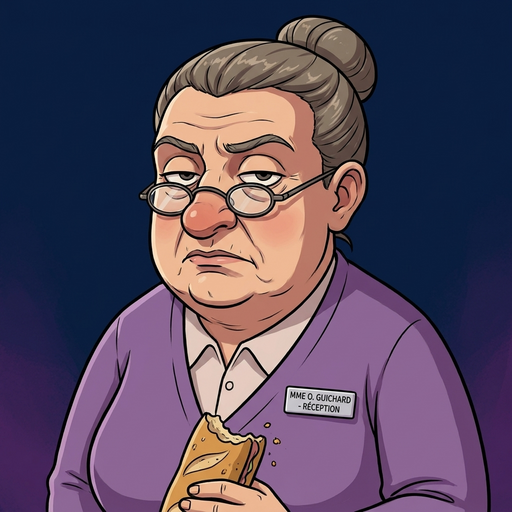
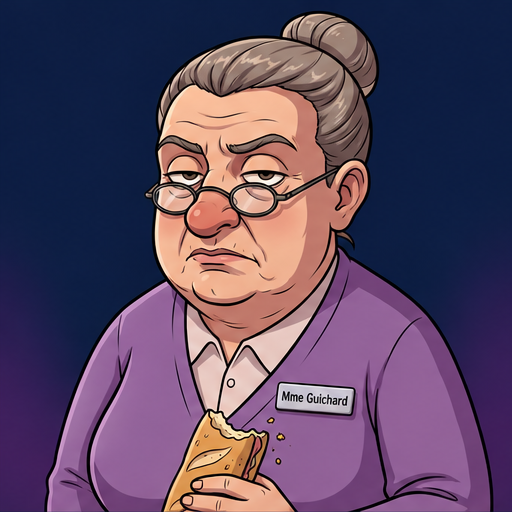
fix(st-guichet): Mme Guichard plus petite dans la baie 1 + planches parlantes v3
- billboard : buste v3 avec marge transparente (≈ 71 % × 67 % du cadre au lieu de ≈ 99 %),
  base abaissée de top − 0,05 à top − 0,08 → tête sous le rideau, air côté vitre/montants
  (buste visible ≈ 3,12 → ≈ 2,24 de haut ; ≈ 2,94 → ≈ 2,07 de large, baie ≈ 3,49)
- planche billboard 2 cellules repos/parle (visage parlant recollé, pas de scintillement),
  basculée par actorFrame pendant ses répliques
- portrait dialogue : grille GenAI 3 × 2 remappée sur SHEET 4 × 2 (clignement, yeux au ciel,
  3 bouches) ; badge « Mme Guichard » (texte de regard aligné)
- GenAI : OpenAI gpt-image-2.6-sunburst (edit), _briefs/guichet/genai/v3 ; doc PORTRAIT_GENAI

diff --git a/src/three/rooms/station.ts b/src/three/rooms/station.ts
@@ -708,11 +708,16 @@ export const stGuichet: RoomBuild = {
     back.add(lamp);
     s.add(back);
     const g = s.fit(s.rect('guichard'), zg);
+    // Buste réduit + assise un peu plus bas : la tête reste sous le rideau, les épaules loin des
+    // montants. Le cadre du sprite garde sa hauteur (≈ 3,15) mais la planche v3 laisse une marge
+    // transparente : buste visible ≈ 71 % de la hauteur / 67 % de la largeur du cadre (v1 : ≈ 99 %),
+    // soit ≈ 2,24 de haut et ≈ 2,07 de large dans une baie de ≈ 3,49. Base top − 0,08 (v1 : − 0,05).
+    const gBase = top - 0.08;
     const gh = Math.min((g.y + g.h / 2) - (top - 0.05), g.w / GUICHARD_ASPECT);
     const guichard = billboardSheet(GUICHARD_SHEET, 2, gh, GUICHARD_ASPECT, { tint: '#fff2f6', shadow: 0.01 });
     const gs = guichard.userData.sprite as THREE.Sprite;
     const baseSY = gs.scale.y;
-    s.spot('guichard', at(guichard, x1, top - 0.05, zg));
+    s.spot('guichard', at(guichard, x1, gBase, zg));
     s.animate((t) => {
       guichard.userData.setFrame(actorFrame('guichard', GUICHARD_ACTOR, t));
       gs.scale.y = baseSY * (1 + Math.sin(t * 1.1) * 0.006); // respiration de fonctionnaire

diff --git a/src/three/props.ts b/src/three/props.ts
@@ -922,7 +922,9 @@ export const SABOT_URL = `${import.meta.env.BASE_URL}props/st/sabot.png`;
 export const SABOT_ASPECT = 772 / 1024;
 /**
  * Mme Odile Guichard derrière l'hygiaphone, accoudée au comptoir, sandwich en main (GenAI, coupée
- * à la ligne du comptoir ; _briefs/guichet/genai). Planche 2 cellules : 0 repos · 1 parle.
+ * à la ligne du comptoir ; v3 OpenAI gpt-image-2.6-sunburst, buste réduit avec marge transparente,
+ * badge « Mme Guichard » ; _briefs/guichet/genai/v3/build.py). Planche 2 cellules : 0 repos · 1 parle
+ * (visage parlant recollé sur la frame repos : pas de scintillement à la bascule).
  */
 export const GUICHARD_URL = `${import.meta.env.BASE_URL}props/st/guichard.png`;
 export const GUICHARD_SHEET = `${import.meta.env.BASE_URL}props/st/guichard-sheet.png`;

diff --git a/src/three/Studio.ts b/src/three/Studio.ts
@@ -83,7 +83,7 @@ export const overlayUrl = (id: string) => `portraits/${id}-robot.png`;
  * + planche `sheetUrl(id)` au layout SHEET, qui prime dès qu'elle est chargée
  * (Frère Élytre : _briefs/ch1/genai-fix/faces.py — mandibules qui s'écartent en
  * parlant, jamais de bouche). M. Sabot : planche GenAI (clignement, agacé, bouche sous la moustache).
- * Mme Guichard (guichet) : même flux que Sabot (visage img2img recollé sur le buste, sandwich fixe).
+ * Mme Guichard (guichet) : planche v3 tirée d'une grille GenAI 3 × 2 (docs/PORTRAIT_GENAI.md).
  */
 const GENAI_PORTRAITS: Record<string, string> = { scribe: 'portraits/scribe-portrait.png', sabot: 'portraits/sabot-portrait.png', guichard: 'portraits/guichard-portrait.png' };
 

diff --git a/docs/PORTRAIT_GENAI.md b/docs/PORTRAIT_GENAI.md
@@ -337,3 +337,21 @@ Le mécanisme d'humeur existe (voir « SYLVIE » : tag `# mood:`, clé YAML `moo
 sceptique, content, agacé, réfléchit) : il faudrait une planche plus grande (ou une planche
 par humeur, avec bouche), étendre `MOODS` dans `src/engine/mood.ts` et ajouter `gary` à
 `PORTRAIT_MOODS`.
+
+## Mme Guichard — planche GenAI v3 (grille 3 × 2)
+
+Une seule génération OpenAI `gpt-image-2.6-sunburst` (edit, réf. = ancien portrait) en
+**grille 3 × 2** de cellules carrées 512 px, fond navy uni : même cadrage, seuls yeux / bouche
+changent. Badge « Mme Guichard ».
+
+| | col 0 | col 1 | col 2 |
+|---|---|---|---|
+| **idle** | neutre blasée | clignement | yeux au ciel |
+| **talk** | mi-ouvert | grand ouvert | « o » |
+
+`_briefs/guichet/genai/v3/build.py` (hors repo) découpe la grille et la remappe sur le layout
+`SHEET` 4 × 2 @256 : `[0, 1, 0, 2 | 3, 4, 5, 3]` → `public/portraits/guichard-sheet.png`
+(1024 × 512) ; cellule 0 → `guichard-portrait.png` (512 × 512). Le même script produit le
+billboard du guichet (`public/props/st/guichard-sheet.png`, 2 cellules 753 × 768 : repos /
+parle — visage parlant recollé sur la frame repos), que `actorFrame('guichard', …)` bascule
+pendant ses répliques.
